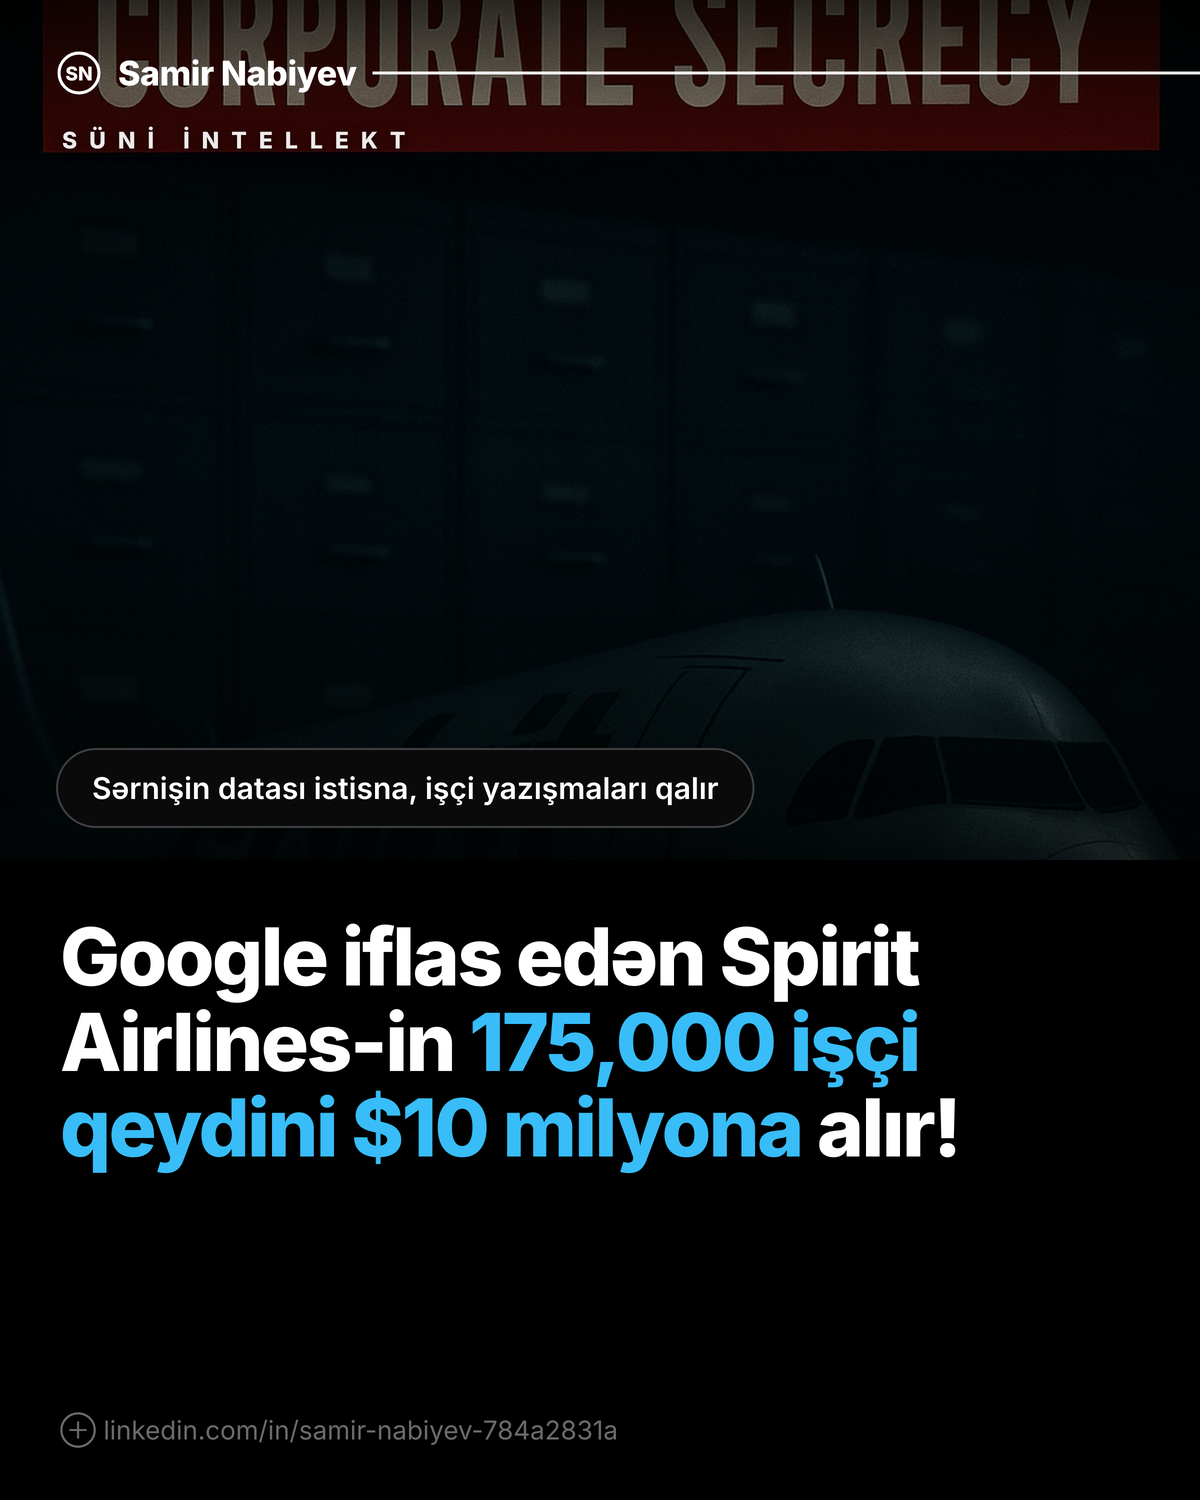
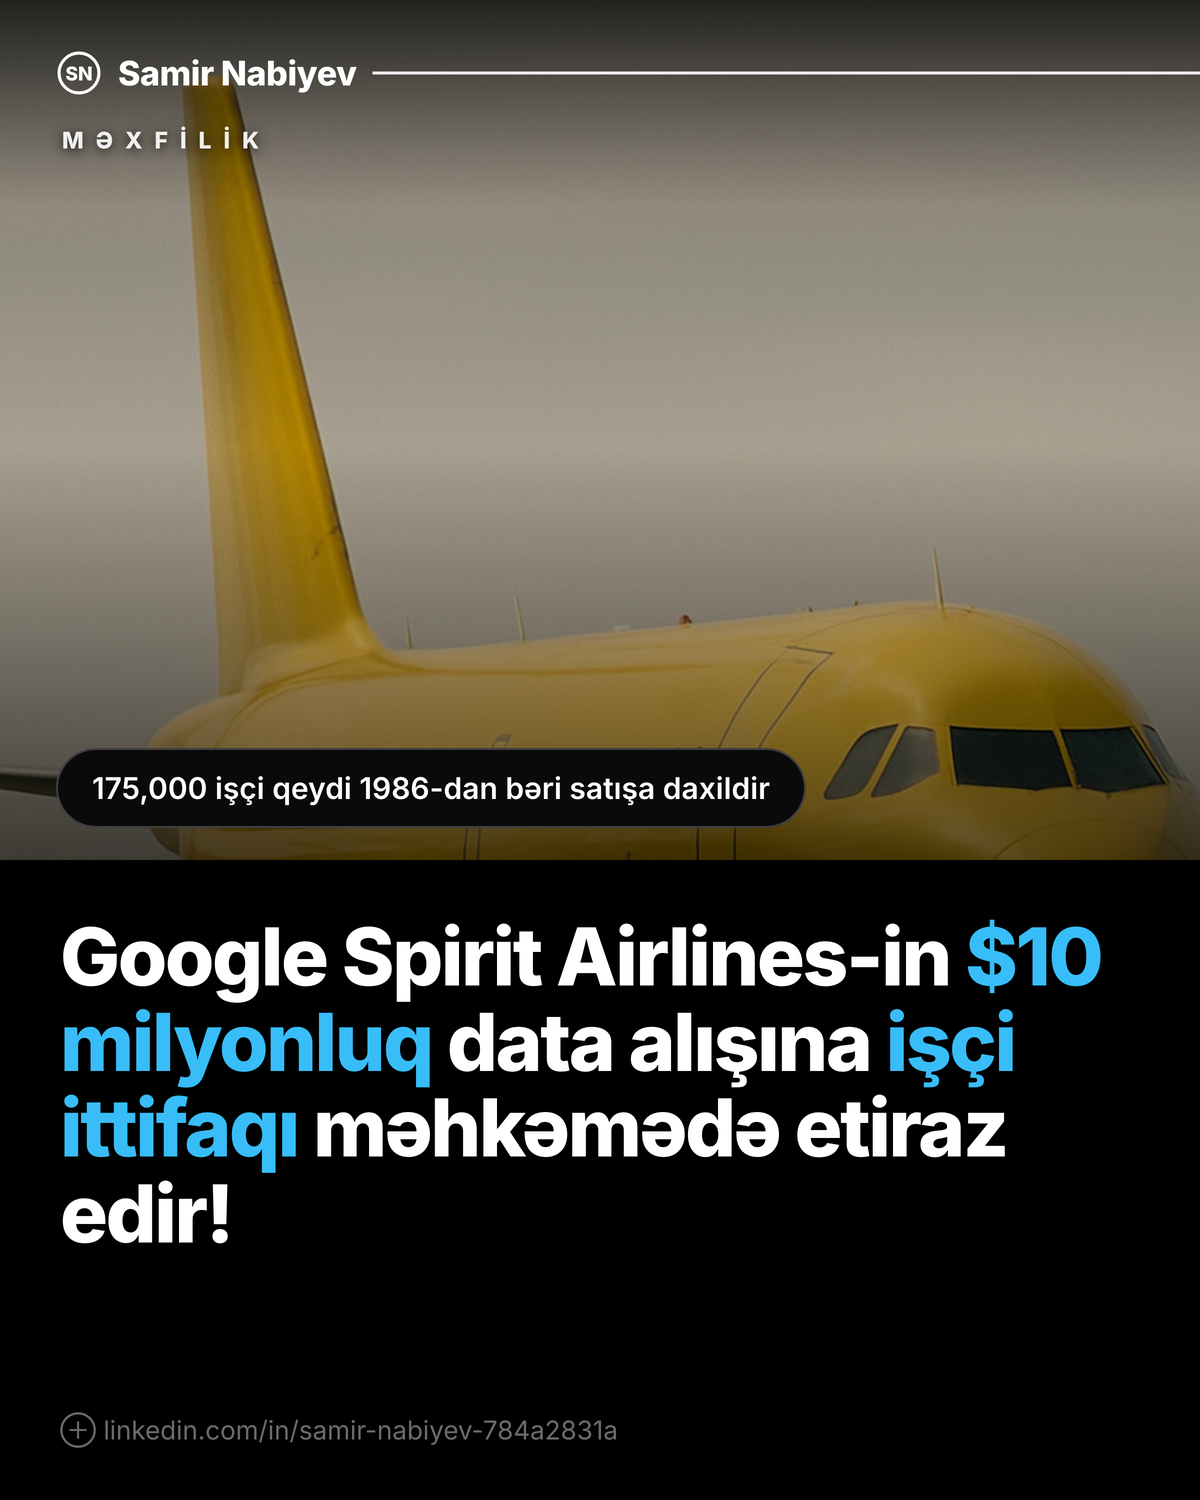
docs: HANDOFF — 24-26-ci dersler, 166 test

diff --git a/HANDOFF.md b/HANDOFF.md
@@ -27,7 +27,7 @@ Axın:
 
 | | |
 |---|---|
-| Kod | ~10 300 sətir · 157 test (hamısı keçir, 0.15s, oflayn) |
+| Kod | ~10 700 sətir · 166 test (hamısı keçir, 0.15s, oflayn) |
 | Repo | `github.com/nabiyevsamir-002/avto-post-linkedin` (private) |
 | Workflow | `prepare` · `tick` · `health` · `test` — hamısı aktiv, cron işləyir |
 | Lokal cron | launchd: `prepare` (08:35) · `tick` (15 dəq) · `watch` (daimi) |
@@ -209,6 +209,31 @@ Bunlar sınaq-səhv yolu ilə tapılıb, hər biri vaxt aparıb:
 
     **Dərs: «mənbə kasaddır» qənaətinə gəlməzdən əvvəl sorğunun özünü
     ölç.** Burada mənbə zəngin, sorğu isə kasad idi.
+
+24. **Dinləyici kodu YADDAŞDA saxlayır — düzəliş ona çatmır.**
+    11.09.2026-da bu, ÜÇ dəfə təkrarlandı: düzəliş push olunur,
+    istifadəçi düyməni basır və artıq həll edilmiş səhvi yenidən görür.
+    İndi `cli.code_fingerprint()` `src/` və `prompts/` mtime-ini izləyir;
+    dəyişiklik görünəndə proses özü çıxır, launchd `KeepAlive` onu
+    qaldırır. *Ölçüldü: prompt toxundurulandan 27 saniyə sonra
+    avtomatik yeniləndi.*
+    ⚠ Bu mexanizm YENİ koddadır — onu ilk dəfə işə salmaq üçün bir
+    dəfə əl ilə restart lazım gəldi (toyuq-yumurta).
+
+25. **Promptdakı NÜMUNƏ default-a çevrilir.** `kicker` qaydası belə
+    idi: «kateqoriya, 1-2 söz: «SÜNİ İNTELLEKT», «TEXNOLOGİYA»».
+    Model nümunəni seçim kimi deyil, cavab kimi götürdü — iflas və
+    məlumat satışı haqqında posta da «SÜNİ İNTELLEKT» yazdı.
+    İndi sabit siyahı yoxdur, cədvəldə müxtəlif mövzular var və
+    açıq qadağa qoyulub.
+    **Dərs: promptda bir-iki nümunə vermə — ya heç verme, ya da
+    müxtəlif cür 4-5 nümunə ver.**
+
+26. **AI şəkil modelinə KART brifini vermə.** `design_brief` içində
+    «üstündə iri xəbər başlığı zolağı» kimi göstərişlər olur; şəkil
+    modeli onu hərfi qəbul edib şəklin üstünə mətn çəkir (real hal:
+    «CORPORATE SECRECY» SN loqosunun üstünə düşdü). `ai_prompt()`
+    yalnız səhnədən qurulur. Ölçülmüş vaxt: 67-160 s, ~$0.03.
 
 ---
 
